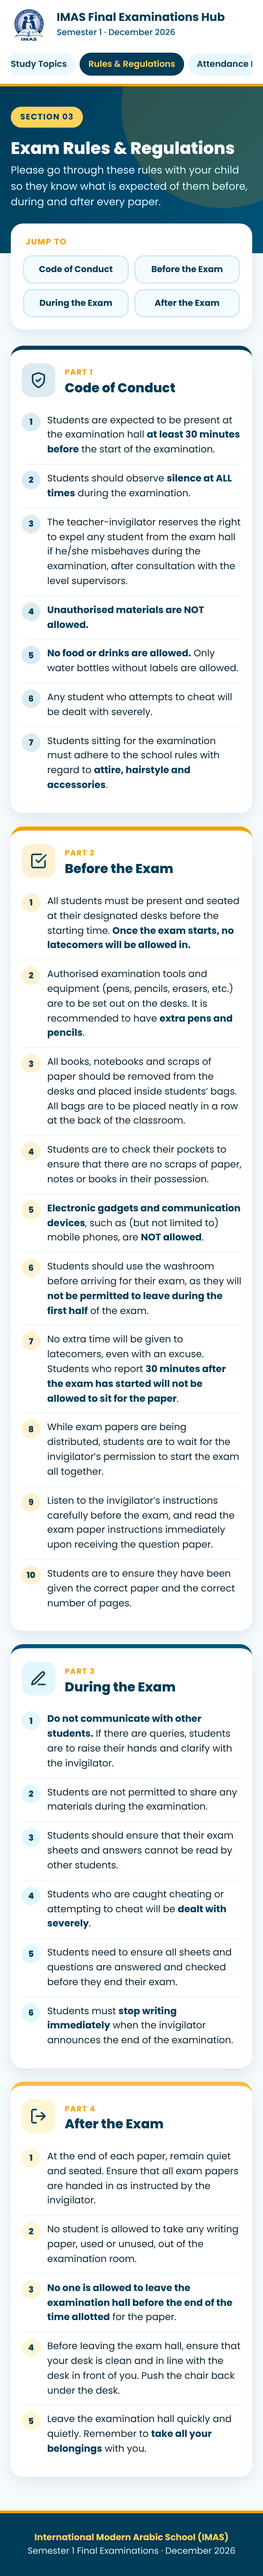
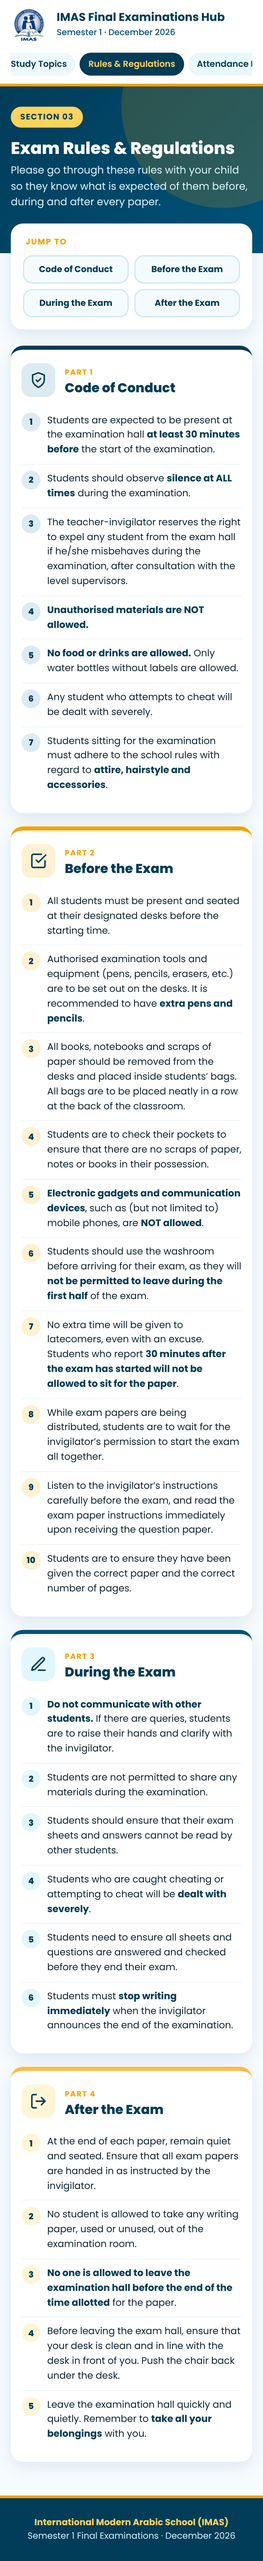
Add Arabic oral/listening assessments, split 10 Dec Arabic paper, Study Topics notice, latecomer rule fix
Claude-Session: https://claude.ai/code/session_017sckVafi1eYcTJgytN5M8z

diff --git a/imas-exam-hub.html b/imas-exam-hub.html
@@ -156,6 +156,7 @@
   .pre h4{color:var(--navy);font-size:.95rem;font-weight:700}
   .pre ul{list-style:none;font-size:.86rem;color:var(--ink)}
   .pre li b{color:var(--blue)}
+  .pre li{margin-top:3px}
   .week{margin-top:28px}
   .week h3{display:flex;align-items:center;gap:10px;color:var(--navy);font-size:1.05rem;font-weight:700;margin-bottom:12px}
   .week h3 span{font-size:.75rem;font-weight:600;color:var(--blue);background:#E2F7FD;padding:3px 10px;border-radius:999px}
@@ -351,7 +352,7 @@
       <div class="timeline">
         <div class="step" style="--c:var(--sky)">
           <div class="dot"><b>2–4<small>DEC</small></b></div>
-          <div><h4>Quran Oral</h4><p>Oral assessments · 2–4 Dec</p></div>
+          <div><h4>Oral &amp; Listening</h4><p>Quran oral, Arabic speaking &amp; listening · 2–4 Dec</p></div>
         </div>
         <div class="step" style="--c:var(--sky)">
           <div class="dot"><b>4<small>DEC</small></b></div>
@@ -395,7 +396,21 @@
     <div style="height:50px"></div>
   </div>
 </div>
-<div class="panel" id="topics"><div class="wrap"><div class="soon"><h2>Study Topics &amp; Resources</h2><p>Content for this section is being prepared.</p><button class="btn btn-primary" data-tab="home">← Back to Home</button></div></div></div>
+<div class="panel" id="topics">
+  <div class="page-hero"><div class="wrap">
+    <span class="tag">Section 02</span>
+    <h1>Study Topics &amp; Resources</h1>
+    <p>Revision topics and study materials for each grade and subject.</p>
+  </div></div>
+  <div class="wrap">
+    <div class="soon" style="margin-top:-40px;position:relative;z-index:2">
+      <h2>Coming soon</h2>
+      <p>Study topics and resources for all grades will be shared here <b>before 30 November 2026</b>. Please check back soon.</p>
+      <button class="btn btn-primary" data-tab="schedule">View Exam Schedule</button>
+    </div>
+    <div style="height:30px"></div>
+  </div>
+</div>
 <div class="panel" id="rules">
   <div class="page-hero"><div class="wrap">
     <span class="tag">Section 03</span>
@@ -430,7 +445,7 @@
       <article class="rcard" id="r-before" style="--c:var(--orange);--cbg:#FFF1D2">
         <header><div class="ri"><svg viewBox="0 0 24 24" fill="none" stroke-width="2" stroke-linecap="round" stroke-linejoin="round"><path d="M9 11l3 3L22 4"/><path d="M21 12v7a2 2 0 0 1-2 2H5a2 2 0 0 1-2-2V5a2 2 0 0 1 2-2h11"/></svg></div><div><small>Part 2</small><h2>Before the Exam</h2></div></header>
         <ol>
-          <li>All students must be present and seated at their designated desks before the starting time. <b>Once the exam starts, no latecomers will be allowed in.</b></li>
+          <li>All students must be present and seated at their designated desks before the starting time.</li>
           <li>Authorised examination tools and equipment (pens, pencils, erasers, etc.) are to be set out on the desks. It is recommended to have <b>extra pens and pencils</b>.</li>
           <li>All books, notebooks and scraps of paper should be removed from the desks and placed inside students’ bags. All bags are to be placed neatly in a row at the back of the classroom.</li>
           <li>Students are to check their pockets to ensure that there are no scraps of paper, notes or books in their possession.</li>
@@ -577,7 +592,7 @@
       ['2026-12-18','exam','English']])},
     g3:{name:'Grade 3', days:BRK.concat([
       ['2026-12-09','exam','English','Paper 1'],
-      ['2026-12-10','exam','Arabic (Arabic Speakers Only)','Paper 1'],
+      ['2026-12-10','exam','Arabic Paper 1','Arabic Speakers Only',1,'Revision Classes','Non-Arabic Speakers'],
       ['2026-12-11','exam','Mathematics'],
       ['2026-12-14','exam','Arabic'],
       ['2026-12-15','exam','Science'],
@@ -586,7 +601,7 @@
       ['2026-12-18','exam','Islamiyat']])},
     g45:{name:'Grades 4 & 5', days:BRK.concat([
       ['2026-12-09','exam','English','Paper 1'],
-      ['2026-12-10','exam','Arabic (Arabic Speakers Only)','Paper 1 + Revision'],
+      ['2026-12-10','exam','Arabic Paper 1','Arabic Speakers Only',1,'Revision Classes','Non-Arabic Speakers'],
       ['2026-12-11','exam','Science'],
       ['2026-12-14','exam','Arabic'],
       ['2026-12-15','exam','Mathematics'],
@@ -595,7 +610,7 @@
       ['2026-12-18','exam','Islamiyat']])},
     g6:{name:'Grade 6', days:BRK.concat([
       ['2026-12-09','rev','Revision Classes'],
-      ['2026-12-10','exam','Arabic (Arabic Speakers Only)','Paper 1 + Revision'],
+      ['2026-12-10','exam','Arabic Paper 1','Arabic Speakers Only',1,'Revision Classes','Non-Arabic Speakers'],
       ['2026-12-11','rev','Revision Classes'],
       ['2026-12-14','exam','Mathematics','Paper 1 & Paper 2',2],
       ['2026-12-15','exam','English','Paper 1 & Paper 2',2],
@@ -632,10 +647,16 @@
       '<div class="sum" style="--c:var(--sky)"><small>First paper</small><b>' + fmt(exams[0][0]) + '</b></div>' +
       '<div class="sum" style="--c:var(--blue)"><small>Last paper</small><b>' + fmt(exams[exams.length-1][0]) + '</b></div></div>';
 
+    var junior = (g === 'g12');
     h += '<div class="pre"><div class="pi"><svg viewBox="0 0 24 24" fill="none" stroke-width="2" stroke-linecap="round" stroke-linejoin="round"><path d="M2 4h7a3 3 0 0 1 3 3v14a2 2 0 0 0-2-2H2z"/><path d="M22 4h-7a3 3 0 0 0-3 3v14a2 2 0 0 1 2-2h8z"/></svg></div>' +
-         '<div><h4>Before the written exams: Quran assessments</h4><ul>' +
+         '<div><h4>Before the written exams: Quran &amp; Arabic oral assessments</h4><ul>' +
          '<li><b>Quran Oral</b> · Wednesday 2 – Friday 4 December 2026</li>' +
-         '<li><b>Quran Paper (Arabic Speakers Only)</b> · Friday 4 December 2026</li></ul></div></div>';
+         '<li><b>Quran Paper (Arabic Speakers Only)</b> · Friday 4 December 2026</li>' +
+         (junior
+           ? '<li><b>Arabic Listening &amp; Speaking (all students)</b> · Wednesday 2 – Friday 4 December 2026</li>'
+           : '<li><b>Arabic Speaking (Non-Arabic Speakers)</b> · Wednesday 2 – Friday 4 December 2026</li>' +
+             '<li><b>Arabic Listening (Non-Arabic Speakers)</b> · Thursday 3 December 2026</li>') +
+         '</ul></div></div>';
 
     WEEKS.forEach(function(w){
       var days = S.days.filter(function(d){ return d[0] >= w[2] && d[0] <= w[3]; });
@@ -648,7 +669,10 @@
         var body;
         if (d[1] === 'brk') body = '<div class="slot"><div class="subj">Study Break<small>No papers scheduled</small></div></div>';
         else if (d[1] === 'rev') body = slotHTML(d[2], 'Revision in class · no paper');
-        else body = slotHTML(d[2], d[3]);
+        else {
+          body = slotHTML(d[2], d[3]);
+          if (d[5]) body += slotHTML(d[5], d[6]);
+        }
         if (d[0] === today) body += '<div><span class="badge t">Today</span></div>';
         h += '<div class="day ' + cls + '"><div class="dt"><small>' + p.dow.slice(0,3) + '</small><b>' + p.d + '</b><span>DEC</span></div><div class="slots">' + body + '</div></div>';
       });
